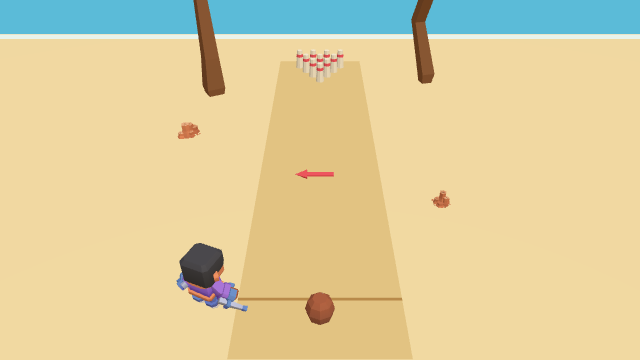
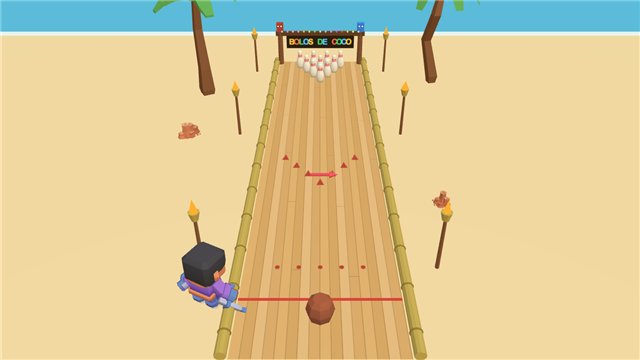
Gráficos: Triples con tribuna llena que celebra, pantalla gigante, letreros, focos, líneas de cancha, tablero con marco y balón con costuras; portadas nuevas de Sumo, Bolos y Triples

Changed region(s): [[0.0, 0.0, 1.0, 1.0], [0.6875, 0.55, 0.7188, 0.7028], [0.0, 0.0, 0.0312, 0.0306]]

diff --git a/src/juegos/arcade/triples.ts b/src/juegos/arcade/triples.ts
@@ -31,11 +31,58 @@ export async function crear(c: Contexto): Promise<Partida> {
   piso.rotation.x = -Math.PI / 2; piso.position.z = -3; e.escena.add(piso);
   const linea = (geo: THREE.BufferGeometry, x: number, z: number) => { const m = new THREE.Mesh(geo, new THREE.MeshBasicMaterial({ color: '#ffffff', side: THREE.DoubleSide })); m.rotation.x = -Math.PI / 2; m.position.set(x, 0.01, z); e.escena.add(m); return m; };
   linea(new THREE.RingGeometry(6.35, 6.45, 64, 1, Math.PI * 1.08, Math.PI * 0.84), 0, ARO_Z); // la línea de tres, del lado del tirador
-  const pintura = new THREE.Mesh(new THREE.PlaneGeometry(3.6, 5.8), new THREE.MeshLambertMaterial({ color: '#c0483a' })); pintura.rotation.x = -Math.PI / 2; pintura.position.set(0, 0.005, ARO_Z + 2.9); e.escena.add(pintura);
-  const tribuna = new THREE.Mesh(new THREE.BoxGeometry(26, 6, 1), mat('#2c3566')); tribuna.position.set(0, 3, -12.5); e.escena.add(tribuna);
-  const publico = new THREE.InstancedMesh(new THREE.SphereGeometry(0.22, 8, 6), new THREE.MeshLambertMaterial(), 160), o = new THREE.Object3D(), tono = new THREE.Color();
-  for (let i = 0; i < 160; i++) { o.position.set(-12 + (i % 40) * 0.62, 1.6 + Math.floor(i / 40) * 1.1, -12); o.updateMatrix(); publico.setMatrixAt(i, o.matrix); publico.setColorAt(i, tono.setHSL(r(), 0.6, 0.55)); }
-  e.escena.add(publico);
+  linea(new THREE.PlaneGeometry(15, 0.1), 0, ARO_Z - 1.2);
+  for (const x of [-7.5, 7.5]) linea(new THREE.PlaneGeometry(0.1, 12), x, ARO_Z + 4.8);
+  for (const x of [-1.8, 1.8]) linea(new THREE.PlaneGeometry(0.08, 5.8), x, ARO_Z + 1.7);
+  linea(new THREE.PlaneGeometry(3.6, 0.08), 0, ARO_Z + 4.6);
+  linea(new THREE.RingGeometry(1.75, 1.83, 40), 0, ARO_Z + 4.6);
+  const pintura = new THREE.Mesh(new THREE.PlaneGeometry(3.6, 5.8), new THREE.MeshLambertMaterial({ color: '#c0483a' })); pintura.rotation.x = -Math.PI / 2; pintura.position.set(0, 0.005, ARO_Z + 1.7); e.escena.add(pintura);
+  // Tribuna escalonada con público (cuerpo y cabeza); salta cuando encestas
+  for (let f = 0; f < 5; f++) { const grada = new THREE.Mesh(new THREE.BoxGeometry(28, 0.9 + f * 1.05, 1.2), mat(f % 2 ? '#2c3566' : '#34407a')); grada.position.set(0, (0.9 + f * 1.05) / 2, -11 - f * 1.2); e.escena.add(grada); }
+  const fondoTribuna = new THREE.Mesh(new THREE.BoxGeometry(30, 12, 0.5), mat('#1b2140')); fondoTribuna.position.set(0, 6, -17.2); e.escena.add(fondoTribuna);
+  const GENTE = 5 * 36, cuerpos = new THREE.InstancedMesh(new THREE.BoxGeometry(0.42, 0.55, 0.3), new THREE.MeshLambertMaterial(), GENTE), cabezas = new THREE.InstancedMesh(new THREE.SphereGeometry(0.17, 8, 6), new THREE.MeshLambertMaterial(), GENTE);
+  const o = new THREE.Object3D(), tono = new THREE.Color(), asientos: { x: number; y: number; z: number; fase: number }[] = [];
+  const POLERAS = ['#3f8cff', '#ef5565', '#ffd23c', '#ffffff', '#3fe07a', '#ff9a2e'], PIELES = ['#f2c9a0', '#d9a06a', '#a8703f', '#6b4423', '#f7d9b8'];
+  for (let i = 0; i < GENTE; i++) {
+    const fila = Math.floor(i / 36), x = -12.6 + (i % 36) * 0.72 + (fila % 2) * 0.3, y = 0.9 + fila * 1.05 + 0.3, z = -11 - fila * 1.2;
+    asientos.push({ x, y, z, fase: r() * 6.28 });
+    cuerpos.setColorAt(i, tono.set(POLERAS[Math.floor(r() * POLERAS.length)])); cabezas.setColorAt(i, tono.set(PIELES[Math.floor(r() * PIELES.length)]));
+  }
+  cuerpos.frustumCulled = cabezas.frustumCulled = false; // se mueven: el cálculo de qué se ve no los sigue
+  e.escena.add(cuerpos, cabezas);
+  let fiesta = 0;
+  const moverPublico = (t: number) => {
+    asientos.forEach((a, i) => {
+      const salto = Math.max(0, Math.sin(t * 9 + a.fase)) * 0.35 * fiesta + Math.sin(t * 2 + a.fase) * 0.03;
+      o.position.set(a.x, a.y + salto, a.z); o.updateMatrix(); cuerpos.setMatrixAt(i, o.matrix);
+      o.position.y += 0.44; o.updateMatrix(); cabezas.setMatrixAt(i, o.matrix);
+    });
+    cuerpos.instanceMatrix.needsUpdate = cabezas.instanceMatrix.needsUpdate = true;
+  };
+  // Letreros luminosos en la línea de fondo y focos que caen sobre la cancha
+  const letrero = document.createElement('canvas'); letrero.width = 512; letrero.height = 64;
+  const gl = letrero.getContext('2d')!; gl.fillStyle = '#10142a'; gl.fillRect(0, 0, 512, 64); gl.font = 'bold 40px sans-serif'; gl.textBaseline = 'middle';
+  ['SUSTOLIMPIADAS', '★ TRIPLES ★'].forEach((txt, i) => { gl.fillStyle = i ? '#ffd23c' : '#5ad1ff'; gl.fillText(txt, i ? 330 : 14, 34); });
+  const texLetrero = new THREE.CanvasTexture(letrero); texLetrero.colorSpace = THREE.SRGBColorSpace; texLetrero.wrapS = THREE.RepeatWrapping; texLetrero.repeat.set(3, 1);
+  const vallas = new THREE.Mesh(new THREE.BoxGeometry(24, 0.7, 0.2), [mat('#10142a'), mat('#10142a'), mat('#10142a'), mat('#10142a'), new THREE.MeshBasicMaterial({ map: texLetrero }), mat('#10142a')]);
+  vallas.position.set(0, 0.35, -9.6); e.escena.add(vallas);
+  const focos: THREE.Mesh[] = [];
+  for (const x of [-6, -2, 2, 6]) { const haz = new THREE.Mesh(new THREE.ConeGeometry(1.6, 9, 16, 1, true), new THREE.MeshBasicMaterial({ color: '#fff6d0', transparent: true, opacity: 0.045, depthWrite: false, side: THREE.DoubleSide })); haz.position.set(x, 5.5, -5 + Math.abs(x) * 0.2); e.escena.add(haz); focos.push(haz); }
+  // Pantalla gigante sobre el aro (puntaje y ronda)
+  const pantalla = document.createElement('canvas'); pantalla.width = 256; pantalla.height = 112;
+  const texPantalla = new THREE.CanvasTexture(pantalla); texPantalla.colorSpace = THREE.SRGBColorSpace;
+  const marcador = new THREE.Mesh(new THREE.BoxGeometry(3.4, 1.5, 0.3), [mat('#222222'), mat('#222222'), mat('#222222'), mat('#222222'), new THREE.MeshBasicMaterial({ map: texPantalla }), mat('#222222')]);
+  marcador.position.set(0, 5.5, -10.4); e.escena.add(marcador);
+  for (const x of [-1.2, 1.2]) { const cable = new THREE.Mesh(new THREE.CylinderGeometry(0.02, 0.02, 3), mat('#555555')); cable.position.set(x, 7.7, -10.4); e.escena.add(cable); }
+  let mostrado = '';
+  const pintarPantalla = (puntaje: number, texto: string) => {
+    const clave = puntaje + texto; if (clave === mostrado) return; mostrado = clave;
+    const x = pantalla.getContext('2d')!;
+    x.fillStyle = '#05070f'; x.fillRect(0, 0, 256, 112);
+    x.fillStyle = '#ff9a2e'; x.font = 'bold 54px monospace'; x.textAlign = 'center'; x.fillText(String(puntaje).padStart(4, '0'), 128, 62);
+    x.fillStyle = '#5ad1ff'; x.font = 'bold 20px sans-serif'; x.fillText(texto, 128, 96);
+    texPantalla.needsUpdate = true;
+  };
   const aro = new THREE.Group();
   const tablero = new THREE.Mesh(new THREE.BoxGeometry(1.8, 1.05, 0.06), new THREE.MeshStandardMaterial({ color: '#ffffff', transparent: true, opacity: 0.88 }));
   tablero.position.set(0, ALTO_ARO + 0.4, TABLERO_Z - ARO_Z);
@@ -44,13 +91,15 @@ export async function crear(c: Contexto): Promise<Partida> {
   const anillo = new THREE.Mesh(new THREE.TorusGeometry(ARO, 0.025, 8, 28), mat('#ff5a1e')); anillo.rotation.x = Math.PI / 2; anillo.position.y = ALTO_ARO;
   const red = new THREE.Mesh(new THREE.CylinderGeometry(ARO, ARO * 0.65, 0.45, 14, 1, true), new THREE.MeshBasicMaterial({ color: '#ffffff', wireframe: true, transparent: true, opacity: 0.7 })); red.position.y = ALTO_ARO - 0.23;
   const poste = new THREE.Mesh(new THREE.CylinderGeometry(0.09, 0.09, ALTO_ARO + 0.5), mat('#3a3a44')); poste.position.set(0, (ALTO_ARO + 0.5) / 2, TABLERO_Z - ARO_Z - 0.6);
+  for (const [w, h, x, y] of [[1.86, 0.06, 0, 0.53], [1.86, 0.06, 0, -0.53], [0.06, 1.1, -0.92, 0], [0.06, 1.1, 0.92, 0]]) { const borde = new THREE.Mesh(new THREE.BoxGeometry(w, h, 0.08), mat('#1a1a22')); borde.position.set(x, ALTO_ARO + 0.4 + y, TABLERO_Z - ARO_Z); aro.add(borde); }
   aro.add(tablero, cuadro, anillo, red, poste); aro.position.z = ARO_Z;
   e.escena.add(aro);
 
   // ── El tirador y su carro de balones ──
-  const yo = await e.personaje(c.aspecto, 1.8), sombraYo = sombra(0.4); e.escena.add(sombraYo);
+  const yo = await e.personaje(c.aspecto, 1.6), sombraYo = sombra(0.4); e.escena.add(sombraYo);
   const geoBola = new THREE.SphereGeometry(BOLA, 16, 12);
-  const pelo = (clase: Clase) => new THREE.MeshStandardMaterial({ color: clase === 'oro' ? '#ffd23c' : clase === 'dinero' ? '#ffffff' : '#e8722a', emissive: clase === 'oro' ? '#a86a00' : '#000000', emissiveIntensity: 0.4, roughness: 0.6, metalness: clase === 'oro' ? 0.5 : 0 });
+  const costuras = (() => { const c2 = document.createElement('canvas'); c2.width = 128; c2.height = 64; const x = c2.getContext('2d')!; x.fillStyle = '#e8722a'; x.fillRect(0, 0, 128, 64); x.strokeStyle = '#2a1a10'; x.lineWidth = 3; x.beginPath(); x.moveTo(0, 32); x.lineTo(128, 32); for (const cx of [32, 96]) { x.moveTo(cx, 0); x.lineTo(cx, 64); } x.stroke(); x.beginPath(); x.ellipse(64, 32, 20, 32, 0, 0, Math.PI * 2); x.stroke(); const t = new THREE.CanvasTexture(c2); t.colorSpace = THREE.SRGBColorSpace; return t; })();
+  const pelo = (clase: Clase) => new THREE.MeshStandardMaterial({ map: clase === 'normal' ? costuras : null, color: clase === 'oro' ? '#ffd23c' : '#ffffff', emissive: clase === 'oro' ? '#a86a00' : '#000000', emissiveIntensity: 0.4, roughness: 0.6, metalness: clase === 'oro' ? 0.5 : 0 });
   const rayas = textura();
   function textura() { const c2 = document.createElement('canvas'); c2.width = 64; c2.height = 32; const x = c2.getContext('2d')!; x.fillStyle = '#ffffff'; x.fillRect(0, 0, 64, 32); for (let i = 0; i < 4; i++) { x.fillStyle = i % 2 ? '#d9443a' : '#2a5bd7'; x.fillRect(i * 16, 0, 8, 32); } const t = new THREE.CanvasTexture(c2); t.colorSpace = THREE.SRGBColorSpace; return t; }
   const carro = new THREE.Group(); e.escena.add(carro);
@@ -150,6 +199,8 @@ export async function crear(c: Contexto): Promise<Partida> {
       e.chispas(ax, ALTO_ARO - 0.3, ARO_Z, b.clase === 'oro' ? ['#ffd23c', '#ffffff'] : ['#ffffff', '#ff5a1e', '#3f8cff'], b.clase === 'normal' ? 16 : 34, 4);
       e.sonido.efecto(limpio ? 'campana' : 'bien', 0.5) || e.sonido.bien();
       red.scale.set(1, 1.25, 1);
+      fiesta = b.clase === 'normal' ? 0.7 : 1;
+      if (b.clase !== 'normal') e.chispas(ax, ALTO_ARO + 1, ARO_Z, ['#ffd23c', '#ef5565', '#3f8cff', '#ffffff'], 60, 7);
     }
   };
 
@@ -158,6 +209,10 @@ export async function crear(c: Contexto): Promise<Partida> {
   e.alCuadro((t, dt) => {
     const paso = Math.min(dt, 0.05);
     red.scale.y += (1 - red.scale.y) * Math.min(1, paso * 8);
+    fiesta = Math.max(0, fiesta - paso * 0.5);
+    moverPublico(t);
+    focos.forEach((f, i) => { f.rotation.z = Math.sin(t * 0.6 + i * 1.7) * 0.18; });
+    pintarPantalla(puntos, `RONDA ${ronda + 1} · ${aciertos}/${tiros}`);
     aro.position.x = aroX(t);
     for (let i = balones.length - 1; i >= 0; i--) {
       const b = balones[i];
